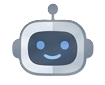
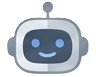
update: 中央機器人顯示

diff --git a/frontend/src/components/BigScreen.tsx b/frontend/src/components/BigScreen.tsx
@@ -22,7 +22,7 @@ export interface TaskEntry {
 export type BackgroundTypeOverride = 'default' | 'none' | 'camera';
 
 export interface BigScreenMsg {
-  type: 'pose' | 'leave' | 'scene-change' | 'vrm-change' | 'vrm-identity-change' | 'slot-assign' | 'task-change' | 'recording-start' | 'recording-stop' | 'settlement-done' | 'hint-change' | 'ai-hint' | 'group-transform' | 'camera-bg-device' | 'bg-type-override' | 'speaking';
+  type: 'pose' | 'leave' | 'scene-change' | 'vrm-change' | 'vrm-identity-change' | 'slot-assign' | 'task-change' | 'recording-start' | 'recording-stop' | 'settlement-done' | 'hint-change' | 'ai-hint' | 'group-transform' | 'camera-bg-device' | 'bg-type-override' | 'speaking' | 'interaction-phase';
   identity?: string;
   poseData?: unknown;
   /** For 'scene-change': new scene preset ID */
@@ -53,6 +53,8 @@ export interface BigScreenMsg {
   bgTypeOverride?: BackgroundTypeOverride;
   /** For 'speaking': 目前正在說話的 participant identity 清單 */
   speakingIdentities?: string[];
+  /** For 'interaction-phase': 目前互動腳本相位（'idle' 表示未互動） */
+  interactionPhase?: string;
 }
 
 /**
@@ -345,6 +347,7 @@ export default function BigScreen() {
     try { return JSON.parse(sessionStorage.getItem('bigscreen-hintLevel') ?? 'null'); } catch { return null; }
   });
   const [aiHint, setAiHint] = useState<AIHintPayload | null>(null);
+  const [interactionPhase, setInteractionPhase] = useState<string>('idle');
 
   const canvasRef = useRef<HTMLCanvasElement | null>(null);
 
@@ -1704,6 +1707,8 @@ export default function BigScreen() {
         } catch {/* ignore */ }
       } else if (msg.type === 'speaking') {
         setSpeakingIdentities(new Set(msg.speakingIdentities ?? []));
+      } else if (msg.type === 'interaction-phase') {
+        setInteractionPhase(msg.interactionPhase ?? 'idle');
       }
     };
 
@@ -1899,7 +1904,8 @@ export default function BigScreen() {
               );
             })()}
 
-            {/* 常駐中央機器人 + 環狀波動（有人說話時啟動，依老師/學生著色） */}
+            {/* 中央機器人 + 環狀波動（僅在互動進行中顯示） */}
+            {/* {interactionPhase !== 'idle' && ( */}
             <div
               className={`bs-robot-zone${teacherSpeaking ? ' is-teacher-speaking' : ''}${studentSpeaking ? ' is-student-speaking' : ''}`}
             >
@@ -1926,6 +1932,7 @@ export default function BigScreen() {
                 </div>
               )}
             </div>
+            {/* )} */}
           </div>
         );
       })()}

diff --git a/frontend/src/components/HostSession.tsx b/frontend/src/components/HostSession.tsx
@@ -34,7 +34,7 @@ import SceneEditor from './SceneEditor.tsx';
 import ConfirmationModal from './ConfirmationModal.tsx';
 
 // ─── Module-level constants & types ─────────────────────────────────────────
-const SCRIPT_RECORD_SECONDS = 15;
+const SCRIPT_RECORD_SECONDS = 10;
 type InteractionPhase = 'idle' | 'recording' | 'generating' | 'student';
 
 // ─── Types ──────────────────────────────────────────────────────────────────
@@ -293,6 +293,11 @@ export default function HostSession({ roomId, livekitToken, hostToken }: HostSes
   const [interactionPhase, setInteractionPhase] = useState<InteractionPhase>('idle');
   const interactionPhaseRef = useRef<InteractionPhase>('idle');
   useEffect(() => { interactionPhaseRef.current = interactionPhase; }, [interactionPhase]);
+  // 廣播互動相位給 BigScreen（控制中央機器人顯示/隱藏）
+  useEffect(() => {
+    const msg: BigScreenMsg = { type: 'interaction-phase', interactionPhase };
+    channelRef.current?.postMessage(msg);
+  }, [interactionPhase]);
   // 標記「此次 stop 由開始互動腳本觸發」→ transcript effect 立即送出（不倒數）
   const autoScriptTriggerRef = useRef(false);
   const scriptTimerRef = useRef<ReturnType<typeof setTimeout> | null>(null);
@@ -697,6 +702,7 @@ export default function HostSession({ roomId, livekitToken, hostToken }: HostSes
     autoScriptTriggerRef.current = false;
     setScriptCountdown(null);
     setInteractionPhase('idle');
+    // setRecordDuration(0);
   }, []);
 
   const startInteractionScript = useCallback(() => {

diff --git a/frontend/src/App.css b/frontend/src/App.css
@@ -6866,8 +6866,8 @@ button:disabled {
 .bs-robot-ring:nth-child(2) { animation-delay: 0.6s; }
 .bs-robot-ring:nth-child(3) { animation-delay: 1.2s; }
 @keyframes bs-ring-pulse {
-  0%   { transform: scale(0.6); opacity: 0.8; }
-  100% { transform: scale(2.2); opacity: 0; }
+  0%   { transform: scale(0.5); opacity: 0.8; }
+  100% { transform: scale(2.0); opacity: 0; }
 }
 .bs-ai-bubble-wrap {
   position: relative;